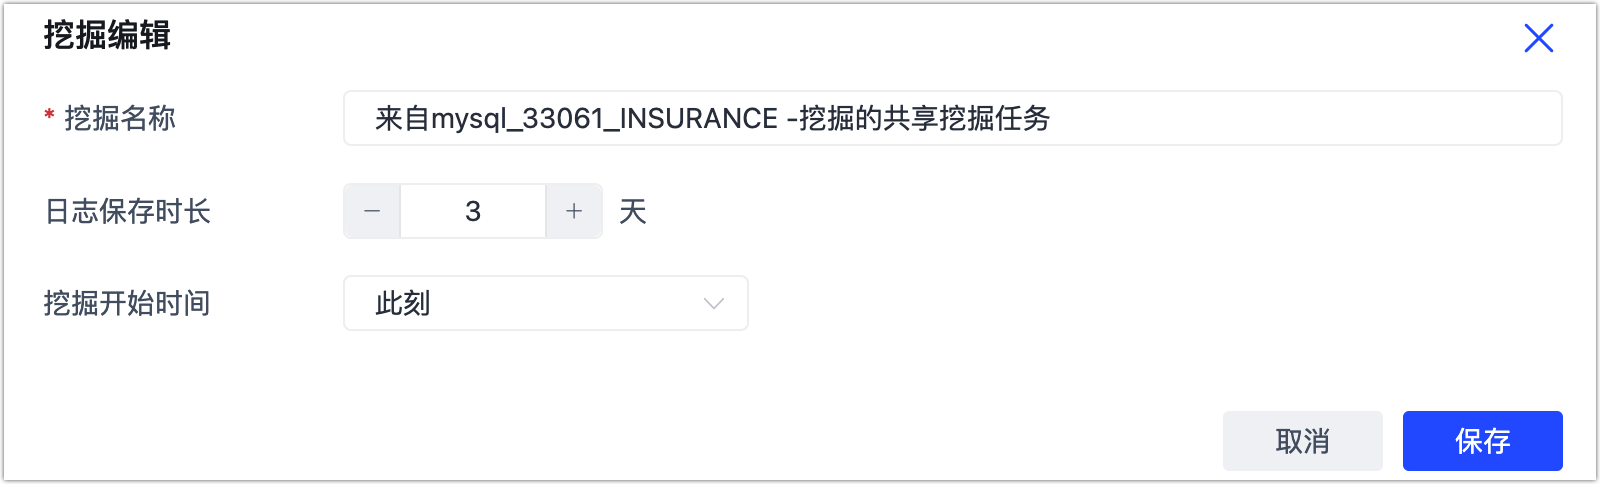
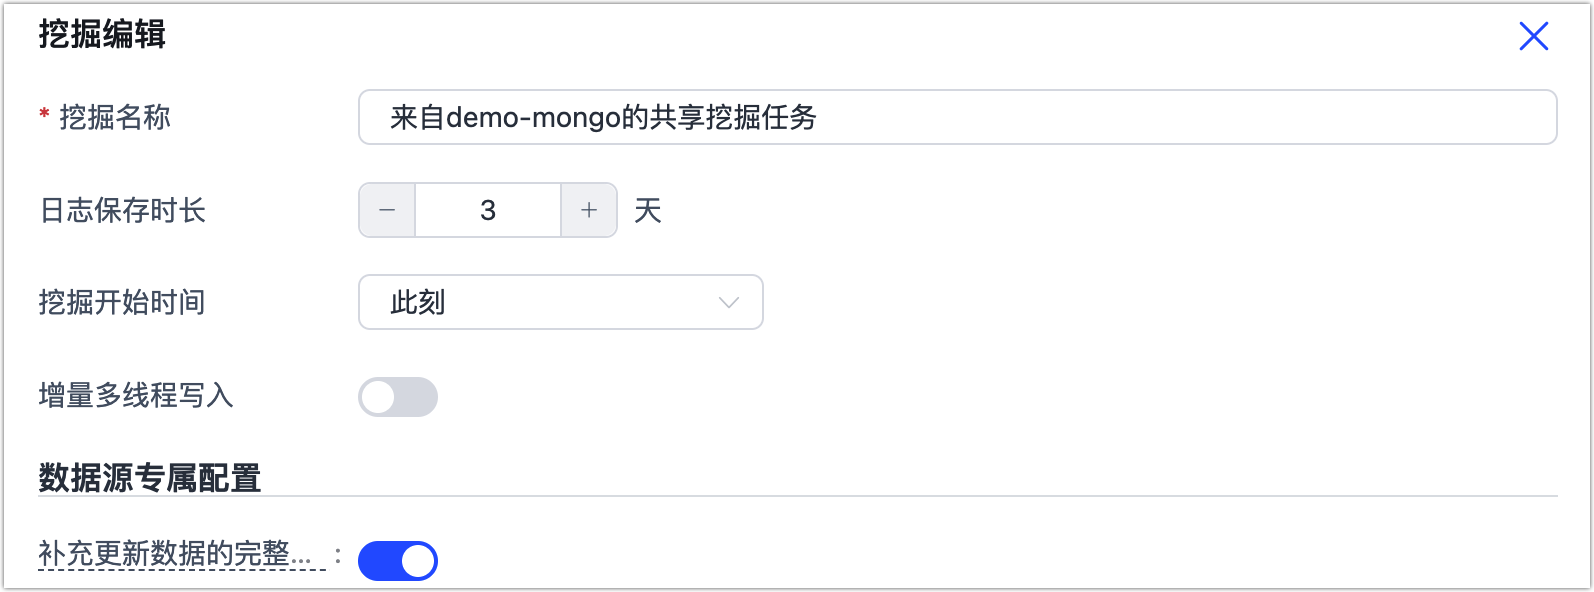
Release 3.5.4

diff --git a/sidebars.js b/sidebars.js
@@ -240,6 +240,7 @@ const sidebars = {
              link: {type: 'doc', id: 'cloud/user-guide/data-development/README'},
              items:[
                    'cloud/user-guide/data-development/create-task',
+                   'cloud/user-guide/data-development/create-materialized-view',
                    'cloud/user-guide/data-development/manage-task',
                    'cloud/user-guide/data-development/process-node',
                    'cloud/user-guide/data-development/monitor-task',
@@ -551,6 +552,7 @@ const sidebars = {
                      link: {type: 'doc', id: 'enterprise/user-guide/data-pipeline/data-development/README'},
                      items:[
                             'enterprise/user-guide/data-pipeline/data-development/create-task',
+                            'enterprise/user-guide/data-pipeline/data-development/create-materialized-view',
                             'enterprise/user-guide/data-pipeline/data-development/manage-task',
                             'enterprise/user-guide/data-pipeline/data-development/process-node',
                             'enterprise/user-guide/data-pipeline/data-development/monitor-task',

diff --git a/docs/cloud/user-guide/data-development/create-materialized-view.md b/docs/cloud/user-guide/data-development/create-materialized-view.md
@@ -1,0 +1,58 @@
+# 构建实时物化视图（Beta）
+
+物化视图是一种特殊的数据库视图，它能预存复杂查询的结果，大大提升数据读取的速度。而在整合多种数据源或需要确保数据实时更新的场景下，您可以通过 Tapdata Cloud 来创建实时物化视图，帮助您轻松创建、管理物化视图，同时确保数据的准确性和实时性，简化了数据管理和应用开发过程。
+
+
+
+## 背景介绍
+
+随着数据的爆炸式增长，企业和开发者们面临着日益复杂的数据管理挑战。传统的数据处理方式，如手动管理和同步多个相关数据表，不仅效率低下，还可能带来数据一致性的问题。此时，高效和实时的数据整合工具变得尤为关键。
+
+Tapdata Cloud 的实时物化视图功能正是为解决这类问题而设计，帮助您可以轻松地整合不同的数据源，实现源表数据发生变动时自动更新物化视图，确保数据始终保持时效性和准确性。这种自动化和实时性大大简化了数据管理的复杂性，同时提高了查询的效率。
+
+为了使这一功能更加贴近实际应用，我们选择了电商领域的数据作为例子。在电商平台中，订单管理是其核心环节，常见的数据表如订单表、子订单表、货品表、用户信息表和物流表都扮演着重要的角色。假设开发团队决定使用 MongoDB，并计划将上述表格的数据整合到一个新的 order 表中。这样的任务，借助于 Tapdata Cloud，将变得轻而易举。
+
+接下来，我们将详细演示如何在电商场景中应用 Tapdata Cloud 的实时物化视图功能，助您深入理解其强大之处。
+
+
+
+## 操作步骤
+
+1. 登录 [Tapdata Cloud 平台](https://cloud.tapdata.net/console/v3/)。
+
+2. 在左侧导航栏，单击**数据转换**。
+
+3. 单击页面右侧的**构建物化视图**，在跳转到任务配置页面完成主表配置。
+
+   1. 选择要作为物化视图来源的数据库和表，本案例中选择 **order** 表作为主表。
+
+      ![选择主表](../../images/select_main_table.png)
+
+   2. 前面我们提到，我们希望能够构建包含用户信息、货品表等完整数据的物化视图，首先我们单击 **+ 新增字段**，在弹出的菜单中选择内嵌文档并输入字段名称为 **user**。
+
+   3. 在浮现的字段编辑框中，依次完成要关联的库、表和关联条件，本案例中我们关联到 **users** 表的 **user_id** 。
+
+      完成设置后，即可看到 **orders** 表中多了一个名为 **user** 的内嵌文档字段。
+
+      ![添加字段](../../images/add_columns.png)
+
+   4. 增加一个 **sub_orders** 字段来存储子订单信息，即在 **orders** 表上单击 **+ 新增字段**, 选择**内嵌数组**并输入路径 **sub_orders**，然后参考上一步骤完成表和关联条件的设置。
+
+   5. 将货品和物理信息增加至 **sub_orders** 字段内，这次需要在 **sub_orders** 表上单击 **+ 新增字段**，选择平铺并完成表和关联条件的设置。
+
+      完成所有配置后，具体关联关系如下图所示，至此，**orders** 表包含了全部的表信息。
+
+      ![物化视图概览](../../images/materialized_view_overview.png)
+
+4. 单击 **orders** 表编辑框右上角的 **+ 写入目标**，然后选择要写入的 MongoDB 数据源和集合名称。
+
+   如下图所示，我们可以在右侧的目标集合 **order_view** 中看到其字段类型和详情。
+
+   ![选择目标表](../../images/select_view_write_target.png)
+
+5. 单击左上角的 **X** 图标返回至任务配置页面，单击右上角的**启动**，即可完成实时物化视图的构建。
+
+   启动成功后会自动跳转至任务监控页面，您可以查看任务的 QPS、延迟、任务事件等信息。
+
+   ![查看](../../images/monitor_view_task.png)
+

diff --git a/docs/enterprise/user-guide/data-pipeline/data-development/create-materialized-view.md b/docs/enterprise/user-guide/data-pipeline/data-development/create-materialized-view.md
@@ -1,0 +1,58 @@
+# 构建实时物化视图（Beta）
+
+物化视图是一种特殊的数据库视图，它能预存复杂查询的结果，大大提升数据读取的速度。而在整合多种数据源或需要确保数据实时更新的场景下，您可以通过 Tapdata 来创建实时物化视图，帮助您轻松创建、管理物化视图，同时确保数据的准确性和实时性，简化了数据管理和应用开发过程。
+
+
+
+## 背景介绍
+
+随着数据的爆炸式增长，企业和开发者们面临着日益复杂的数据管理挑战。传统的数据处理方式，如手动管理和同步多个相关数据表，不仅效率低下，还可能带来数据一致性的问题。此时，高效和实时的数据整合工具变得尤为关键。
+
+Tapdata 的实时物化视图功能正是为解决这类问题而设计，帮助您可以轻松地整合不同的数据源，实现源表数据发生变动时自动更新物化视图，确保数据始终保持时效性和准确性。这种自动化和实时性大大简化了数据管理的复杂性，同时提高了查询的效率。
+
+为了使这一功能更加贴近实际应用，我们选择了电商领域的数据作为例子。在电商平台中，订单管理是其核心环节，常见的数据表如订单表、子订单表、货品表、用户信息表和物流表都扮演着重要的角色。假设开发团队决定使用 MongoDB，并计划将上述表格的数据整合到一个新的 order 表中。这样的任务，借助于 Tapdata，将变得轻而易举。
+
+接下来，我们将详细演示如何在电商场景中应用 Tapdata 的实时物化视图功能，助您深入理解其强大之处。
+
+
+
+## 操作步骤
+
+1. 登录 Tapdata 平台。
+
+2. 在左侧导航栏，选择**数据管道** > **数据转换**。
+
+3. 单击页面右侧的**构建物化视图**，在跳转到任务配置页面完成主表配置。
+
+   1. 选择要作为物化视图来源的数据库和表，本案例中选择 **order** 表作为主表。
+
+      ![选择主表](../../../images/select_main_table.png)
+
+   2. 前面我们提到，我们希望能够构建包含用户信息、货品表等完整数据的物化视图，首先我们单击 **+ 新增字段**，在弹出的菜单中选择内嵌文档并输入字段名称为 **user**。
+
+   3. 在浮现的字段编辑框中，依次完成要关联的库、表和关联条件，本案例中我们关联到 **users** 表的 **user_id** 。
+
+      完成设置后，即可看到 **orders** 表中多了一个名为 **user** 的内嵌文档字段。
+
+      ![添加字段](../../../images/add_columns.png)
+
+   4. 增加一个 **sub_orders** 字段来存储子订单信息，即在 **orders** 表上单击 **+ 新增字段**, 选择**内嵌数组**并输入路径 **sub_orders**，然后参考上一步骤完成表和关联条件的设置。
+
+   5. 将货品和物理信息增加至 **sub_orders** 字段内，这次需要在 **sub_orders** 表上单击 **+ 新增字段**，选择平铺并完成表和关联条件的设置。
+
+      完成所有配置后，具体关联关系如下图所示，至此，**orders** 表包含了全部的表信息。
+
+      ![物化视图概览](../../../images/materialized_view_overview.png)
+
+4. 单击 **orders** 表编辑框右上角的 **+ 写入目标**，然后选择要写入的 MongoDB 数据源和集合名称。
+
+   如下图所示，我们可以在右侧的目标集合 **order_view** 中看到其字段类型和详情。
+
+   ![选择目标表](../../../images/select_view_write_target.png)
+
+5. 单击左上角的 **X** 图标返回至任务配置页面，单击右上角的**启动**，即可完成实时物化视图的构建。
+
+   启动成功后会自动跳转至任务监控页面，您可以查看任务的 QPS、延迟、任务事件等信息。
+
+   ![查看](../../../images/monitor_view_task.png)
+

diff --git a/docs/enterprise/release-notes.md b/docs/enterprise/release-notes.md
@@ -2,6 +2,25 @@
 
 本文介绍 V3.x 的版本更新日志，早期版本请参见 [V2.x 版本更新日志](https://docs.tapdata.net/2.0/enterprise/release-notes)。
 
+
+
+## V3.5.4
+
+### 新增功能
+
+- 新增[构建物化视图](user-guide/data-pipeline/data-development/create-materialized-view.md)功能，可快速构建实时数据模型
+- 新增支持对[共享挖掘](user-guide/advanced-settings/share-mining.md)任务的源节点进行配置调整，支持设置是否启用**增量多线程写入**和**补充更新数据的完整字段**
+- Kafka 数据源新增支持[设置副本数和分区数](best-practice/oracle-to-kafka#advanced_settings)
+- MongoDB 间同步时，新增对 `$unset` 操作的支持
+
+### 功能优化
+
+- [数据校验](user-guide/data-pipeline/verify-data.md)功能字段过滤体验优化
+- 支持在数据复制/数据转换配置的页面顶部，通过搜索节点来快速定位目标节点
+
+
+---
+
 ## V3.5.2
 
 ### 新增功能
@@ -9,13 +28,9 @@
 * 新增 [Python 处理节点](user-guide/data-pipeline/data-development/process-node#python)，支持通过 Python 脚本来自定义数据处理逻辑，相较于 JS 处理节点性能有一定提升
 * 新增支持 Redis 间的数据同步能力
 
-## 功能优化
+### 功能优化
 
 * 优化[数据源错误码](user-guide/data-pipeline/error-code-solution.md)，覆盖更多场景并提供解决方案
-
-
-
----
 
 
 

diff --git a/docs/enterprise/best-practice/oracle-to-kafka.md b/docs/enterprise/best-practice/oracle-to-kafka.md
@@ -120,10 +120,16 @@ Tapdata 作为一款高效、可靠、安全实时数据平台，可为您提供
      * **全量多线程写入**：全量数据写入的并发线程数，默认为 **8**，可基于目标端写性能适当调整。      
      * **增量多线程写入**：增量数据写入的并发线程数，默认未启用，启用后可基于目标端写性能适当调整。      
      * **模型**：展示源表的表结构信息，包含字段名称和字段类型。         
-   * **高级设置** 
+   * **<span id="advanced_settings">高级设置</span> **
      根据业务需求选择数据写入模式：
+     
      * **按事件类型处理**：选择此项后，还需要选择插入、更新、删除事件的数据写入策略。
      * **统计追加写入**：只处理插入事件，丢弃更新和删除事件。        
+     
+     设置数据源专属配置：
+     
+     * **副本数**：由 Tapdata 自动创建的 Topic 的副本数，不可大于 Kafka 集群数量且创建后不可更改。
+     * **分区数量**：若 Topic 已存在，分区的数量只能增加不能减小。
    * **告警设置**   
      默认情况下，节点的平均处理耗时连续 1 分钟大于等于 5 秒，则发送系统通知和邮件通知，您也可以根据业务需求调整规则或关闭告警。
 

diff --git a/docs/cloud/release-notes.md b/docs/cloud/release-notes.md
@@ -13,7 +13,27 @@ import TabItem from '@theme/TabItem';
 <Tabs className="unique-tabs">
   <TabItem value="2023" label="2023 年" default>
 ```
+### 20231008
+
+#### 新增功能
+
+- 新增[构建物化视图](user-guide/data-development/create-materialized-view.md)功能，可快速构建实时数据模型
+- Kafka 数据源新增支持设置副本数和分区数
+- MongoDB 间同步时，新增对 `$unset` 操作的支持
+
+#### 功能优化
+
+- 任务引导过程中，针对全托管 Agent 在创建连接时，增加全托管 Agent 公网 IP 地址的说明，
+- 支持在数据复制/数据转换配置的页面顶部，通过搜索节点来快速定位目标节点
+
+#### 问题修复
+
+* 修复通过页面重启 Agent 时，记录的操作日志类别不正确的问题
+
+
+
 ### 20230920
+
 #### 新增功能
 
 * 新增 [Python 处理节点](user-guide/data-development/process-node#python)，支持通过 Python 脚本来自定义数据处理逻辑，相较于 JS 处理节点性能有一定提升

diff --git a/docs/enterprise/user-guide/advanced-settings/share-mining.md b/docs/enterprise/user-guide/advanced-settings/share-mining.md
@@ -30,7 +30,7 @@
 
 * **停止共享挖掘任务**：当不再需要执行共享挖掘任务或需要调整配置时，可单击**停止**。
 
-* **编辑共享挖掘配置**：当共享挖掘任务处于停止状态时，可单击**编辑**，然后在弹出的对话框中，设置挖掘名称、日志保存时长和挖掘开始时间。
+* **编辑共享挖掘配置**：当共享挖掘任务处于停止状态时，可单击**编辑**，然后在弹出的对话框中，设置挖掘名称、日志保存时长、挖掘开始时间、是否启用增量多线程写入和补充更新数据的完整字段。
 
   ![编辑共享挖掘](../../images/edit_share_mining.png)
 
